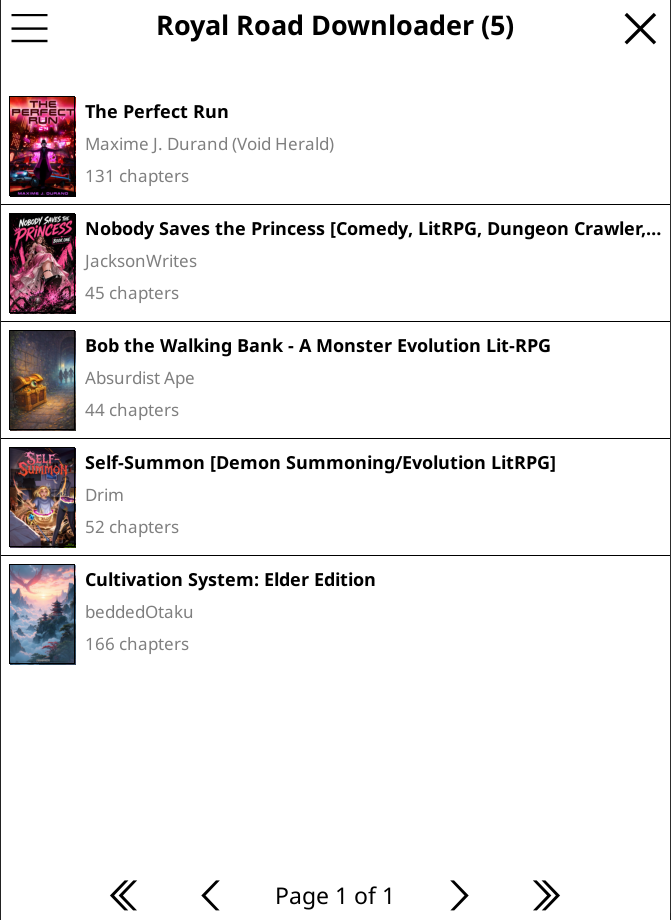
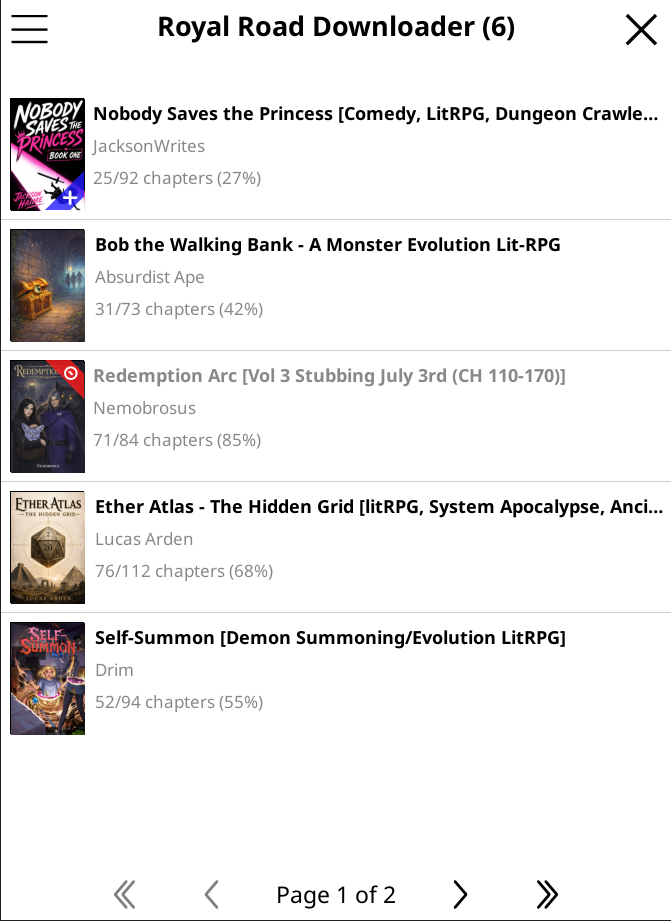
docs: refresh README screenshots and note reading progress
Retake the menu, search, story-options and download-by-id screenshots,
add the mosaic view with per-cover progress bars, and lead the README
table with it. Mention reading progress in the feature list and the
manage-downloads section, and add a release badge.

diff --git a/README.md b/README.md
@@ -1,10 +1,12 @@
 # Royal Road Downloader — KOReader Plugin
 
+[![Release](https://img.shields.io/github/v/release/DavidMakin/royalroad.koplugin?style=flat&label=release)](https://github.com/DavidMakin/royalroad.koplugin/releases/latest)
+
 Download web fiction from [Royal Road](https://www.royalroad.com/) directly to your e-reader as EPUB files, ready to read offline.
 
 <table><tr>
-<td align="center"><img src="docs/screenshots/search_results.png" width="260" alt="Search results"><br><sub><b>Search stories</b></sub></td>
-<td align="center"><img src="docs/screenshots/main_screen.png" width="260" alt="Your library"><br><sub><b>Your library</b></sub></td>
+<td align="center"><img src="docs/screenshots/main_mosaic.png" width="260" alt="Your library"><br><sub><b>Your library</b></sub></td>
+<td align="center"><img src="docs/screenshots/search_results.png" width="260" alt="Search stories"><br><sub><b>Search stories</b></sub></td>
 <td align="center"><img src="docs/screenshots/update_dialog.png" width="260" alt="Check for updates"><br><sub><b>Check for updates</b></sub></td>
 </tr></table>
 
@@ -19,6 +21,7 @@ Royal Road hosts thousands of free web novels. This plugin lets you download any
 - Browse and search Royal Road without leaving your device
 - Download complete stories or resume interrupted downloads
 - Automatic updates — check for new chapters and add them to your existing EPUB
+- Reading progress shown on your library covers and in the downloads list
 - Cover images, chapter titles, and author metadata included
 - Respects Royal Road's servers with built-in rate limiting
 
@@ -70,13 +73,15 @@ https://www.royalroad.com/fiction/21220/mother-of-learning
                                    fiction ID
 ```
 
-Go to **Tools → Royal Road → Download story**, enter the ID, and tap Download.
+Go to **Tools → Royal Road → Download story**, enter the ID, and tap Download. Pasting the full URL works too.
+
+<img src="docs/screenshots/download_by_id_or_url.png" width="300" alt="Download by URL or ID"><br><sub><b>Download by URL or ID</b></sub>
 
 ### Managing downloads
 
-**Tools → Royal Road → My downloads** shows all your downloaded stories with cover images.
+**Tools → Royal Road → My downloads** shows all your downloaded stories with cover art. The mosaic view adds a progress bar to each cover, and the list view shows how many chapters you've read.
 
-<img src="docs/screenshots/downloads.png" width="300" alt="Downloads screen"><br><sub><b>My downloads</b></sub>
+<img src="docs/screenshots/main_mosaic.png" width="300" alt="Downloads screen"><br><sub><b>My downloads</b></sub>
 
 From here you can:
 - Open a story to read it
